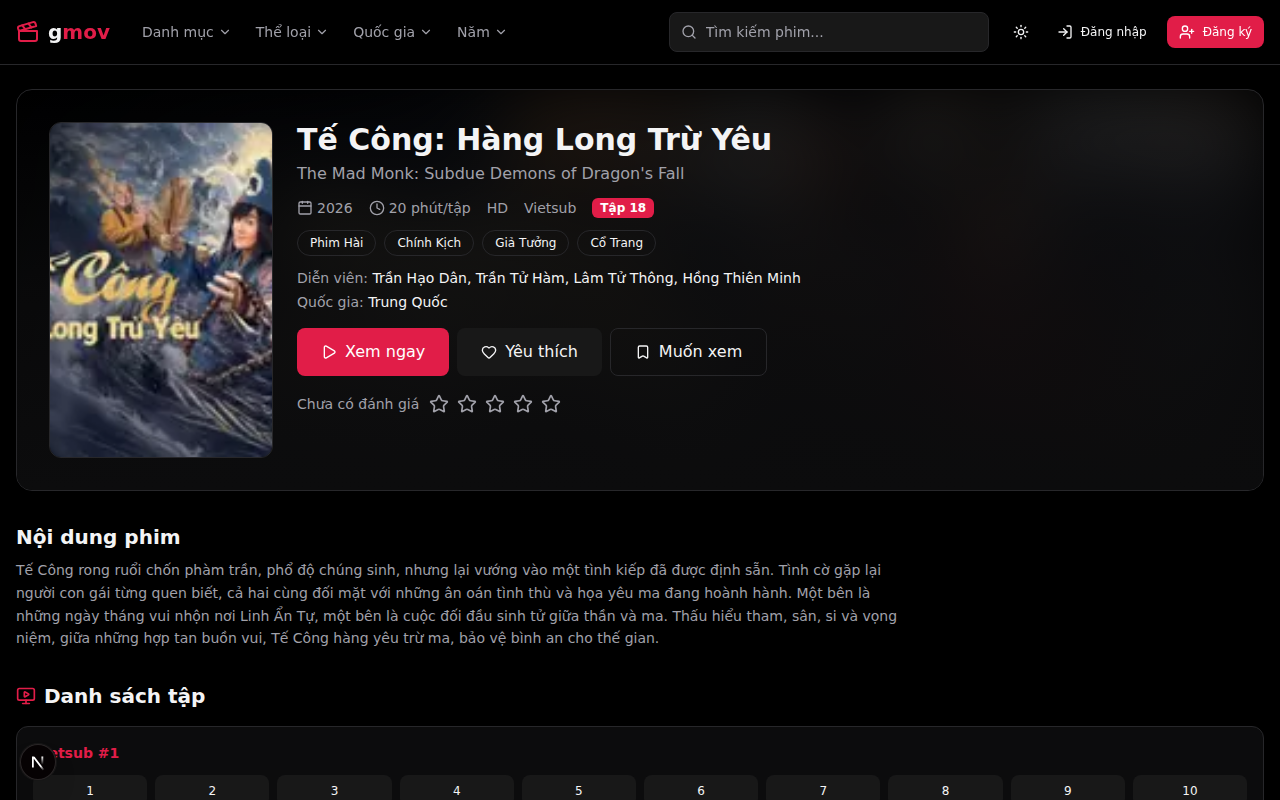
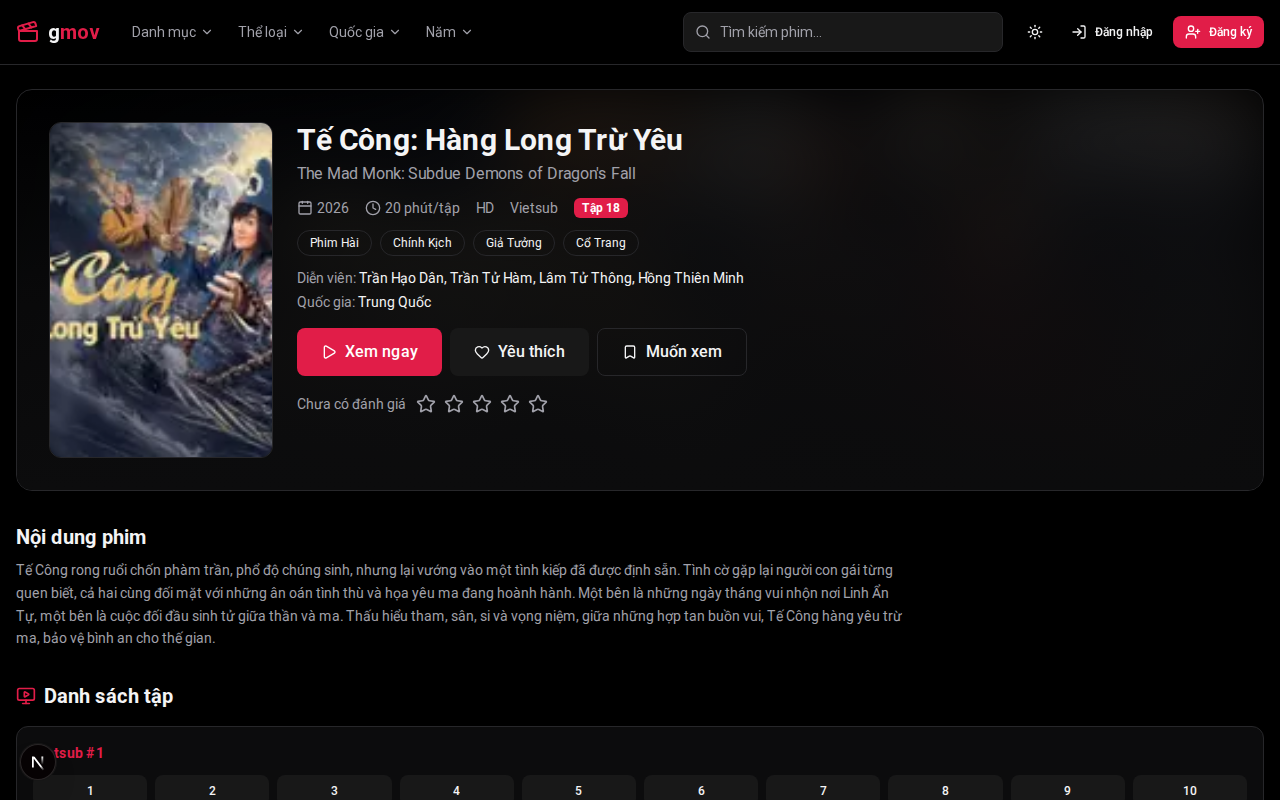
feat(web): use Roboto font and add light theme demo screenshots

diff --git a/apps/web/app/layout.tsx b/apps/web/app/layout.tsx
@@ -1,4 +1,5 @@
 import type { Metadata } from "next";
+import { Roboto } from "next/font/google";
 import "./globals.css";
 
 import { SiteFooter } from "@/components/layout/site-footer";
@@ -15,6 +16,12 @@ export const metadata: Metadata = {
   description: "Web xem phim: duyệt, tìm kiếm và theo dõi phim yêu thích.",
 };
 
+const roboto = Roboto({
+  weight: ["400", "500", "700"],
+  subsets: ["latin", "vietnamese"],
+  display: "swap",
+});
+
 export default function RootLayout({
   children,
 }: {
@@ -27,7 +34,7 @@ export default function RootLayout({
         <link rel="preconnect" href="https://phim.nguonc.com" />
         <link rel="dns-prefetch" href="https://phim.nguonc.com" />
       </head>
-      <body className="flex min-h-screen flex-col antialiased">
+      <body className={`${roboto.className} flex min-h-screen flex-col antialiased`}>
         <PwaRegister />
         <Providers>
           <SiteHeader />

diff --git a/apps/web/app/globals.css b/apps/web/app/globals.css
@@ -15,7 +15,7 @@
   --color-brand-foreground: #ffffff;
   --color-ring: #e11d48;
   --font-sans:
-    ui-sans-serif, system-ui, -apple-system, "Segoe UI", Roboto, sans-serif;
+    "Roboto", ui-sans-serif, system-ui, -apple-system, "Segoe UI", sans-serif;
 }
 
 .dark {

diff --git a/README.md b/README.md
@@ -8,9 +8,13 @@ yêu thích, lịch sử xem.
 
 ## Demo
 
-| Trang chủ | Chi tiết phim |
+| Trang chủ (dark) | Chi tiết phim (dark) |
 |---|---|
 | ![Trang chủ gmov](docs/demo/home.png) | ![Chi tiết phim gmov](docs/demo/detail.png) |
+
+| Trang chủ (light) | Chi tiết phim (light) |
+|---|---|
+| ![Trang chủ gmov light](docs/demo/home-light.png) | ![Chi tiết phim gmov light](docs/demo/detail-light.png) |
 
 ## Stack
 
